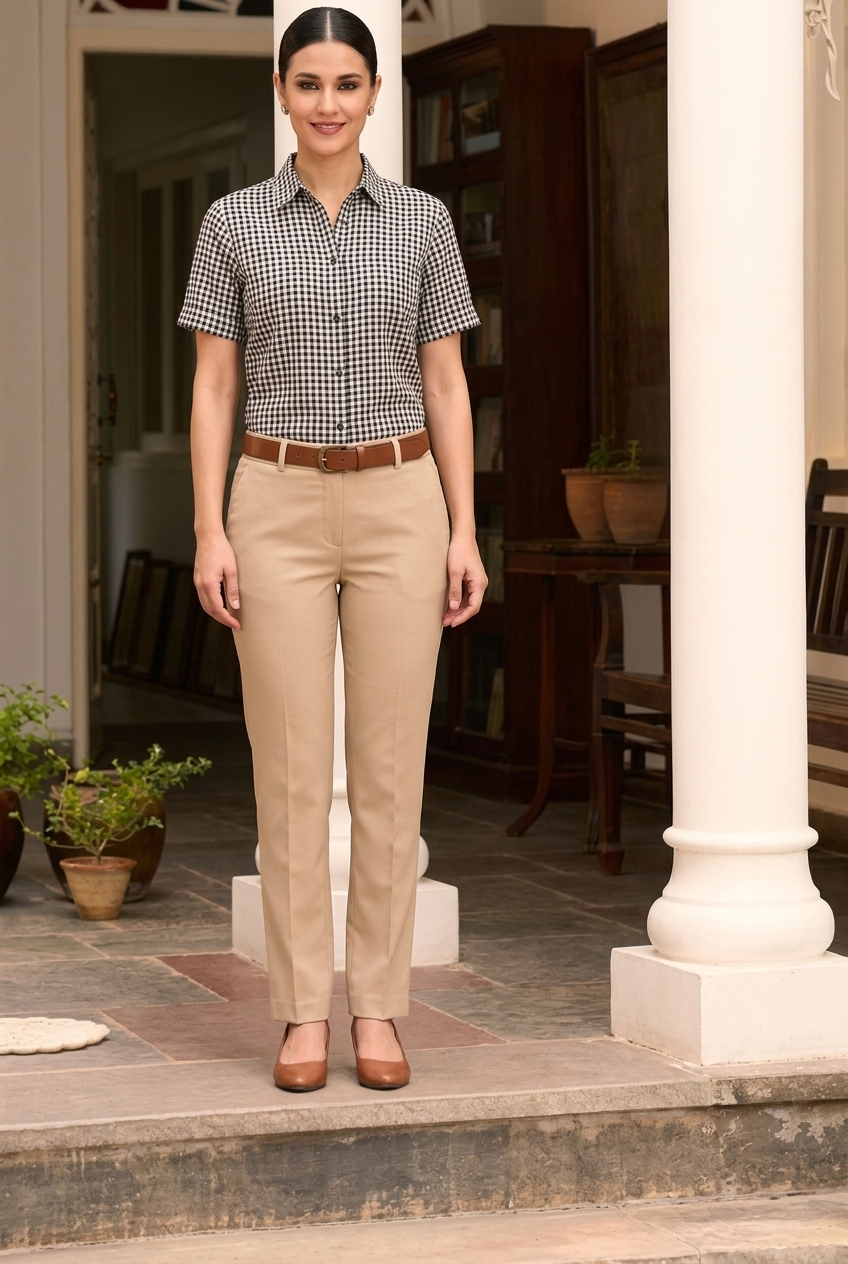
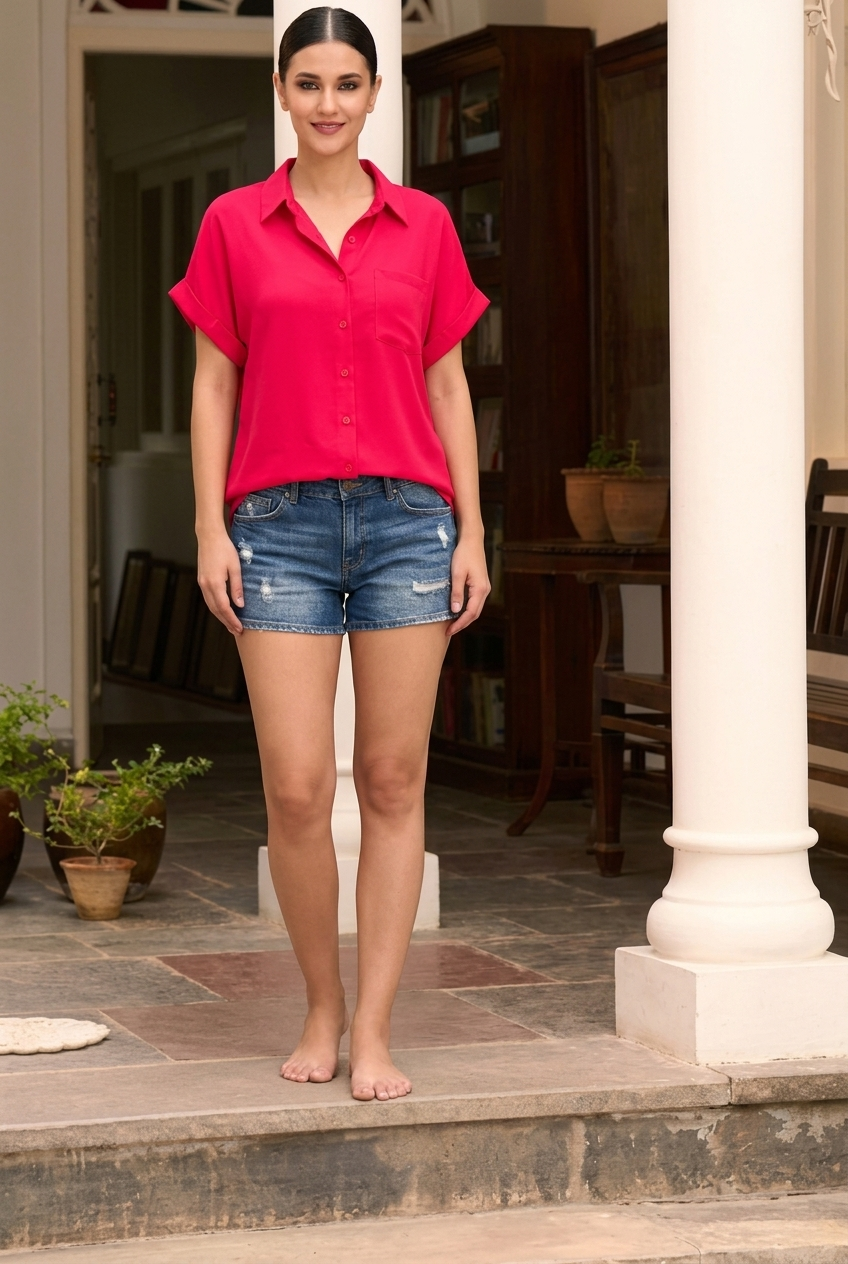
feat: enable instant try-on preview and preserve original fuchsia shirt try-on for default view

diff --git a/app.py b/app.py
@@ -543,7 +543,10 @@ HTML_PAGE = """<!DOCTYPE html>
             const cat = document.getElementById('categorySelect').value;
             const data = categoryMap[cat];
             if (data) {
-                document.getElementById('garmentView').src = data.garment;
+                document.getElementById('garmentView').src = data.garment + '?t=' + Date.now();
+                if (data.tryon) {
+                    document.getElementById('resultView').src = data.tryon + '?t=' + Date.now();
+                }
                 
                 // Update garment selector with files belonging ONLY to this category
                 const gSelect = document.getElementById('garmentSelect');
